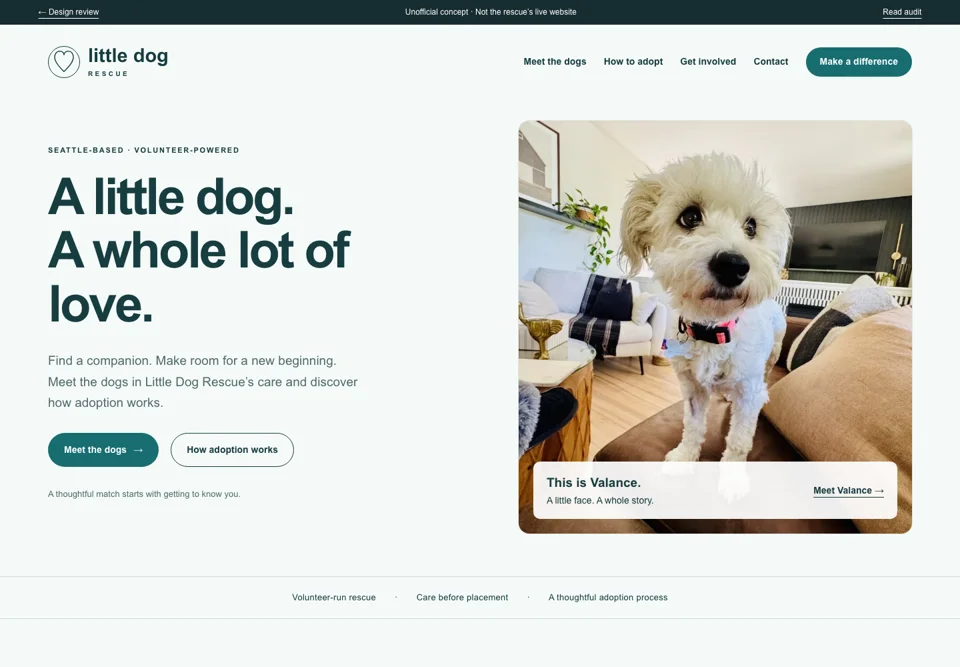
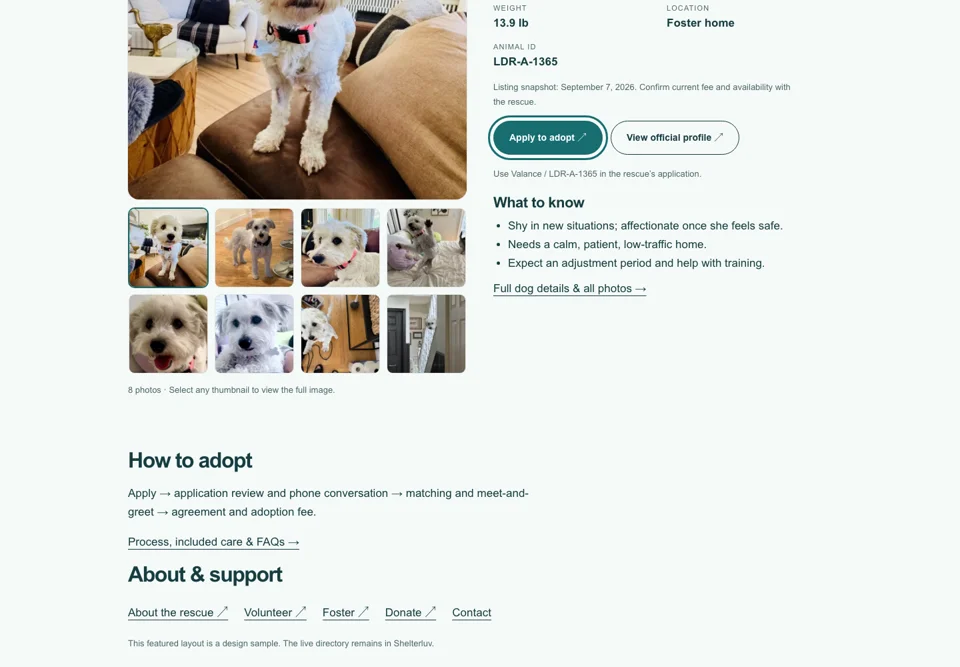
Put dog photos, facts, fees and adoption links first in concept one

diff --git a/app.js b/app.js
@@ -2,6 +2,6 @@ const q=new URLSearchParams(location.search);const look=['teal','warm','forest']
 const heads={teal:['A little dog.<br>A whole lot of love.','Find a companion. Make room for a new beginning.'],warm:['There’s a little<br>someone for you.','A softer landing. A second chance. A place to call home.'],forest:['Good things.<br>Small packages.','A new beginning, right here in the Pacific Northwest.']};
 const steps=`<div class="steps"><article class="step"><h3>Tell us about you.</h3><p>Start with an application so the rescue can learn about your home, routine and hopes for a companion.</p></article><article class="step"><h3>Find the right fit.</h3><p>The volunteer team reviews your application and arranges a phone conversation about potential matches.</p></article><article class="step"><h3>Meet. Connect. Welcome.</h3><p>After matching, meet your potential companion. If it’s a fit, complete the agreement and adoption fee.</p></article></div>`;
 const helpCards=`<div class="cards"><article class="card"><span class="eyebrow">OPEN YOUR HOME</span><h3>Be their in-between.</h3><p>Give a dog a place to settle while the rescue searches for their lasting home.</p>${external(official+'foster','Explore fostering','')}</article><article class="card"><span class="eyebrow">GIVE YOUR TIME</span><h3>Join the good.</h3><p>Support the volunteer team behind each dog’s next chapter.</p>${external(official+'volunteer','Explore volunteering','')}</article><article class="card"><span class="eyebrow">SUPPORT THEIR CARE</span><h3>Make more possible.</h3><p>Help the rescue provide care and prepare dogs for adoption.</p>${external(official+'support-us','Ways to give','')}</article></div>`;
-const pages={home:()=>`<section class="hero"><div class="hero-copy"><span class="eyebrow">SEATTLE-BASED · VOLUNTEER-POWERED</span><h1>${heads[look][0]}</h1><p>${heads[look][1]} Meet the dogs in Little Dog Rescue’s care and discover how adoption works.</p><div class="actions">${link('dogs','Meet the dogs <span aria-hidden="true">→</span>','button')}${link('process','How adoption works','button secondary')}</div><p class="quiet">A thoughtful match starts with getting to know you.</p></div><figure class="hero-photo"><img src="assets/valance-0.webp" alt="Valance, a small white dog, standing on a sofa" width="1028" height="1028" fetchpriority="high"><figcaption><span><strong>This is Valance.</strong>A little face. A whole story.</span>${link('profile','Meet Valance →')}</figcaption></figure></section><div class="trust"><span>Volunteer-run rescue</span><span aria-hidden="true">·</span><span>Care before placement</span><span aria-hidden="true">·</span><span>A thoughtful adoption process</span></div><section class="section"><div class="section-top"><div><span class="eyebrow">A NEW CHAPTER, TOGETHER</span><h2>From first hello<br>to feeling at home.</h2></div><p>Adoption is more than a photo. The rescue considers each dog’s needs alongside your life, home and experience.</p></div>${steps}<div class="actions">${link('process','Explore the adoption process →','button secondary')}</div></section><section class="feature"><div class="section feature-inner"><img src="assets/valance-1.webp" width="1028" height="1028" loading="lazy" alt="Valance in her foster home"><div><span class="eyebrow">ROOM TO FEEL SAFE</span><h2>Every dog deserves<br>a gentle beginning.</h2><p>Some dogs need time to feel comfortable. Valance’s foster notes describe a quiet companion who blossoms with patience and a calm home.</p>${link('profile','Read her story →','button secondary')}<p class="quiet">Featured profile snapshot · September 7, 2026.<br>Check the official listing for current availability.</p></div></div></section><section class="section"><span class="eyebrow">THERE’S MORE THAN ONE WAY TO HELP</span><h2>A little kindness goes a long way.</h2>${helpCards}</section>`,dogs:()=>`<section class="page-head"><span class="eyebrow">MEET YOUR NEXT CHAPTER</span><h1>Little dogs. Real connections.</h1><p>Browse the rescue’s existing Shelterluv listings. Use its search and filters, then open a profile to learn about an individual dog.</p><div class="actions">${link('process','How adoption works','button secondary')}${external(application,'Official adoption application')}</div></section><section class="content"><div class="callout"><strong>Live listing preview:</strong> The panel below is the existing Shelterluv service, not a replacement database. Its dog profiles and controls retain Shelterluv’s styling. Application and donation links inside it lead to real services.</div><div class="embed-shell"><div id="shelterluv_wrap_1737142902"></div></div><p class="embed-caption">Listings missing or difficult to use? ${external(official+'meet-our-dogs','Open the official dog listing','')}.</p><h2>Not sure who might fit?</h2><p>The rescue’s application and matching conversation help the team understand your home and suggest a suitable companion. Please apply before requesting a discussion about a specific dog.</p>${link('process','What to expect →','button secondary')}</section>`,process:()=>`<section class="page-head"><span class="eyebrow">ADOPT WITH CONFIDENCE</span><h1>A thoughtful match.<br>A lasting home.</h1><p>Here’s the rescue’s current process, made easier to follow. Start with an application before asking to discuss a particular dog.</p></section><section class="content"><ol class="wide-steps"><li><h3>Complete the application</h3><p>Share your contact information and the dogs you’re interested in using the rescue’s existing Shelterluv application.</p></li><li><h3>Application review & phone conversation</h3><p>The volunteer team reviews your application, then talks with you about your lifestyle and potential matches.</p></li><li><h3>Matching & meet-and-greet</h3><p>The rescue considers each dog’s personality and needs, then coordinates a meeting for a potential match.</p></li><li><h3>Agreement, fee & a new beginning</h3><p>If it’s the right fit, complete the adoption agreement and fee before welcoming your dog home.</p></li></ol><div class="callout"><strong>A note on timing:</strong> This is a volunteer-run rescue. The contact page says a response may take a few days; an adoption decision may take longer. No specific turnaround is promised.</div><h2>Good to know before you apply.</h2><details open><summary>What does adoption cost?</summary><p>Fees vary by dog. Check the individual Shelterluv profile for the current fee. The rescue says fees help fund its care and rehabilitation work; this preview does not introduce a new fee schedule.</p></details><details><summary>What care is included?</summary><p>The rescue’s adoption page lists a veterinary exam, age-appropriate vaccinations and microchipping, along with starter supplies. Confirm each dog’s arrangements with the team. Puppies require a spay/neuter agreement.</p></details><details><summary>Can I visit a dog before applying?</summary><p>The published process asks for an application first. The team arranges a meet-and-greet after review and matching. Do not assume the listed Seattle address is a walk-in adoption center.</p></details><details><summary>Will my rescue dog already be trained?</summary><p>The featured profile asks adopters to expect an adjustment period and provide patience, structure and compassionate support. Discuss the individual dog’s needs with the rescue.</p></details><div class="actions">${external(application,'Start on Shelterluv')}${link('dogs','Back to the dogs','button secondary')}</div><p class="quiet">Process summarized from the official adoption page. The rescue should approve final wording before it is published.</p></section>`,contact:()=>`<section class="page-head"><span class="eyebrow">LET’S GET YOU TO THE RIGHT PLACE</span><h1>A question? Start here.</h1><p>Choose the path that fits your question. Little Dog Rescue is volunteer-run, and its contact page asks you to allow a few days for a reply.</p></section><section class="content"><div class="contact-grid"><article class="card"><span class="eyebrow">GENERAL QUESTIONS</span><h2>Contact the rescue.</h2><p>Use the email address published on the official website.</p><a class="email" href="mailto:SaveDogs@LittleDogRescue.org">SaveDogs@LittleDogRescue.org</a><p class="quiet">Opens your email app. Nothing is sent automatically.</p><hr><h3>Listed address</h3><p>1037 NE 65th St. #167<br>Seattle, WA 98115</p><p class="quiet">An address is not a visiting invitation. Confirm arrangements with the rescue before traveling.</p></article><article class="card"><span class="eyebrow">INTERESTED IN A DOG?</span><h2>Begin with an application.</h2><p>The rescue asks for an application before discussing specific dogs. Read the process first to understand the next steps.</p>${link('process','Read the adoption process','button')}<p>${external(application,'Official adoption application','')}</p></article></div><div class="section-top"><div><h2>Another way to help?</h2><p>Fostering, volunteering and donations have their own information pages.</p></div></div>${helpCards}</section>`,help:()=>`<section class="page-head"><span class="eyebrow">EVERY LITTLE BIT MATTERS</span><h1>Help write their next chapter.</h1><p>Open your home, share your time or support the care that makes adoption possible.</p></section><section class="content">${helpCards}<div class="callout"><strong>Giving safely:</strong> All donation choices lead to the rescue’s official support page. This preview never asks for payment details and does not promise that a particular amount buys a specific treatment.</div><h2>Care starts with community.</h2><p>Little Dog Rescue describes itself as a volunteer-run nonprofit. Keep its existing donation and volunteer workflows in place while making the next step easier to find.</p>${external(official+'support-us','Visit official support page')}</section>`,profile:()=>`<section class="page-head"><span class="eyebrow">FEATURED STORY · DESIGN SAMPLE</span><h1>Meet Valance.</h1><p>A quiet home. A little patience. A fluffy companion.</p></section><section class="content"><div class="profile-grid"><div><img id="profile-photo" src="assets/valance-0.webp" width="1028" height="1028" alt="Valance in her foster home"><div class="thumbs">${[0,1,2].map((i)=>`<button data-photo="${i}" aria-label="View Valance photo ${i+1}" aria-pressed="${i===0}"><img src="assets/valance-${i}.webp" width="70" height="70" alt=""></button>`).join('')}</div></div><div><span class="eyebrow">LDR-A-1365 · PROFILE SNAPSHOT</span><h2>A gentle little soul.</h2><dl class="facts"><div><dt>Listed breed</dt><dd>Coton de Tuléar</dd></div><div><dt>Sex</dt><dd>Female</dd></div><div><dt>Listed weight</dt><dd>13.9 lb</dd></div><div><dt>Location</dt><dd>Foster home</dd></div></dl><p>Her foster describes a shy dog who becomes an affectionate shadow once she feels safe. A patient adopter and a calm, low-traffic home could give her room to settle.</p><p class="quiet">Snapshot from September 7, 2026. Breed is the rescue’s estimate. Age, fee and availability should be checked on the live profile.</p>${external(profile,'View official profile')}</div></div><div class="callout"><strong>Editorial feature, not a new dog database:</strong> This illustrates an optional Squarespace story page using native image and text blocks. It would require manual updates. The automatically updated directory and full dog profiles remain in Shelterluv.</div>${link('dogs','← Browse the existing Shelterluv listings','button secondary')}</section>`};document.getElementById('main').innerHTML=pages[current]();document.title=`${{teal:'01 · Clear & Kind',warm:'02 · A Little Home',forest:'03 · Northwest Companion'}[look]} · ${current} · Unofficial preview`;
+const pages={home:()=>`<section class="hero"><div class="hero-copy"><span class="eyebrow">SEATTLE-BASED · VOLUNTEER-POWERED</span><h1>${heads[look][0]}</h1><p>${heads[look][1]} Meet the dogs in Little Dog Rescue’s care and discover how adoption works.</p><div class="actions">${link('dogs','Meet the dogs <span aria-hidden="true">→</span>','button')}${link('process','How adoption works','button secondary')}</div><p class="quiet">A thoughtful match starts with getting to know you.</p></div><figure class="hero-photo"><img src="assets/valance-0.webp" alt="Valance, a small white dog, standing on a sofa" width="1028" height="1028" fetchpriority="high"><figcaption><span><strong>This is Valance.</strong>A little face. A whole story.</span>${link('profile','Meet Valance →')}</figcaption></figure></section><div class="trust"><span>Volunteer-run rescue</span><span aria-hidden="true">·</span><span>Care before placement</span><span aria-hidden="true">·</span><span>A thoughtful adoption process</span></div><section class="section"><div class="section-top"><div><span class="eyebrow">A NEW CHAPTER, TOGETHER</span><h2>From first hello<br>to feeling at home.</h2></div><p>Adoption is more than a photo. The rescue considers each dog’s needs alongside your life, home and experience.</p></div>${steps}<div class="actions">${link('process','Explore the adoption process →','button secondary')}</div></section><section class="feature"><div class="section feature-inner"><img src="assets/valance-1.webp" width="1028" height="1028" loading="lazy" alt="Valance in her foster home"><div><span class="eyebrow">ROOM TO FEEL SAFE</span><h2>Every dog deserves<br>a gentle beginning.</h2><p>Some dogs need time to feel comfortable. Valance’s foster notes describe a quiet companion who blossoms with patience and a calm home.</p>${link('profile','Read her story →','button secondary')}<p class="quiet">Featured profile snapshot · September 7, 2026.<br>Check the official listing for current availability.</p></div></div></section><section class="section"><span class="eyebrow">THERE’S MORE THAN ONE WAY TO HELP</span><h2>A little kindness goes a long way.</h2>${helpCards}</section>`,dogs:()=>`<section class="page-head"><span class="eyebrow">MEET YOUR NEXT CHAPTER</span><h1>Little dogs. Real connections.</h1><p>Browse the rescue’s existing Shelterluv listings. Use its search and filters, then open a profile to learn about an individual dog.</p><div class="actions">${link('process','How adoption works','button secondary')}${external(application,'Official adoption application')}</div></section><section class="content"><div class="callout"><strong>Live listing preview:</strong> The panel below is the existing Shelterluv service, not a replacement database. Its dog profiles and controls retain Shelterluv’s styling. Application and donation links inside it lead to real services.</div><div class="embed-shell"><div id="shelterluv_wrap_1737142902"></div></div><p class="embed-caption">Listings missing or difficult to use? ${external(official+'meet-our-dogs','Open the official dog listing','')}.</p><h2>Not sure who might fit?</h2><p>The rescue’s application and matching conversation help the team understand your home and suggest a suitable companion. Please apply before requesting a discussion about a specific dog.</p>${link('process','What to expect →','button secondary')}</section>`,process:()=>`<section class="page-head"><span class="eyebrow">ADOPT WITH CONFIDENCE</span><h1>A thoughtful match.<br>A lasting home.</h1><p>Here’s the rescue’s current process, made easier to follow. Start with an application before asking to discuss a particular dog.</p></section><section class="content"><ol class="wide-steps"><li><h3>Complete the application</h3><p>Share your contact information and the dogs you’re interested in using the rescue’s existing Shelterluv application.</p></li><li><h3>Application review & phone conversation</h3><p>The volunteer team reviews your application, then talks with you about your lifestyle and potential matches.</p></li><li><h3>Matching & meet-and-greet</h3><p>The rescue considers each dog’s personality and needs, then coordinates a meeting for a potential match.</p></li><li><h3>Agreement, fee & a new beginning</h3><p>If it’s the right fit, complete the adoption agreement and fee before welcoming your dog home.</p></li></ol><div class="callout"><strong>A note on timing:</strong> This is a volunteer-run rescue. The contact page says a response may take a few days; an adoption decision may take longer. No specific turnaround is promised.</div><h2>Good to know before you apply.</h2><details open><summary>What does adoption cost?</summary><p>Fees vary by dog. Check the individual Shelterluv profile for the current fee. The rescue says fees help fund its care and rehabilitation work; this preview does not introduce a new fee schedule.</p></details><details><summary>What care is included?</summary><p>The rescue’s adoption page lists a veterinary exam, age-appropriate vaccinations and microchipping, along with starter supplies. Confirm each dog’s arrangements with the team. Puppies require a spay/neuter agreement.</p></details><details><summary>Can I visit a dog before applying?</summary><p>The published process asks for an application first. The team arranges a meet-and-greet after review and matching. Do not assume the listed Seattle address is a walk-in adoption center.</p></details><details><summary>Will my rescue dog already be trained?</summary><p>The featured profile asks adopters to expect an adjustment period and provide patience, structure and compassionate support. Discuss the individual dog’s needs with the rescue.</p></details><div class="actions">${external(application,'Start on Shelterluv')}${link('dogs','Back to the dogs','button secondary')}</div><p class="quiet">Process summarized from the official adoption page. The rescue should approve final wording before it is published.</p></section>`,contact:()=>`<section class="page-head"><span class="eyebrow">LET’S GET YOU TO THE RIGHT PLACE</span><h1>A question? Start here.</h1><p>Choose the path that fits your question. Little Dog Rescue is volunteer-run, and its contact page asks you to allow a few days for a reply.</p></section><section class="content"><div class="contact-grid"><article class="card"><span class="eyebrow">GENERAL QUESTIONS</span><h2>Contact the rescue.</h2><p>Use the email address published on the official website.</p><a class="email" href="mailto:SaveDogs@LittleDogRescue.org">SaveDogs@LittleDogRescue.org</a><p class="quiet">Opens your email app. Nothing is sent automatically.</p><hr><h3>Listed address</h3><p>1037 NE 65th St. #167<br>Seattle, WA 98115</p><p class="quiet">An address is not a visiting invitation. Confirm arrangements with the rescue before traveling.</p></article><article class="card"><span class="eyebrow">INTERESTED IN A DOG?</span><h2>Begin with an application.</h2><p>The rescue asks for an application before discussing specific dogs. Read the process first to understand the next steps.</p>${link('process','Read the adoption process','button')}<p>${external(application,'Official adoption application','')}</p></article></div><div class="section-top"><div><h2>Another way to help?</h2><p>Fostering, volunteering and donations have their own information pages.</p></div></div>${helpCards}</section>`,help:()=>`<section class="page-head"><span class="eyebrow">EVERY LITTLE BIT MATTERS</span><h1>Help write their next chapter.</h1><p>Open your home, share your time or support the care that makes adoption possible.</p></section><section class="content">${helpCards}<div class="callout"><strong>Giving safely:</strong> All donation choices lead to the rescue’s official support page. This preview never asks for payment details and does not promise that a particular amount buys a specific treatment.</div><h2>Care starts with community.</h2><p>Little Dog Rescue describes itself as a volunteer-run nonprofit. Keep its existing donation and volunteer workflows in place while making the next step easier to find.</p>${external(official+'support-us','Visit official support page')}</section>`,profile:()=>`<section class="page-head"><span class="eyebrow">FEATURED STORY · DESIGN SAMPLE</span><h1>Meet Valance.</h1><p>A quiet home. A little patience. A fluffy companion.</p></section><section class="content"><div class="profile-grid"><div><img id="profile-photo" src="assets/valance-0.webp" width="1028" height="1028" alt="Valance in her foster home"><div class="thumbs">${[0,1,2].map((i)=>`<button data-photo="${i}" aria-label="View Valance photo ${i+1}" aria-pressed="${i===0}"><img src="assets/valance-${i}.webp" width="70" height="70" alt=""></button>`).join('')}</div></div><div><span class="eyebrow">LDR-A-1365 · PROFILE SNAPSHOT</span><h2>A gentle little soul.</h2><dl class="facts"><div><dt>Listed breed</dt><dd>Coton de Tuléar</dd></div><div><dt>Sex</dt><dd>Female</dd></div><div><dt>Listed weight</dt><dd>13.9 lb</dd></div><div><dt>Location</dt><dd>Foster home</dd></div></dl><p>Her foster describes a shy dog who becomes an affectionate shadow once she feels safe. A patient adopter and a calm, low-traffic home could give her room to settle.</p><p class="quiet">Snapshot from September 7, 2026. Breed is the rescue’s estimate. Age, fee and availability should be checked on the live profile.</p>${external(profile,'View official profile')}</div></div><div class="callout"><strong>Editorial feature, not a new dog database:</strong> This illustrates an optional Squarespace story page using native image and text blocks. It would require manual updates. The automatically updated directory and full dog profiles remain in Shelterluv.</div>${link('dogs','← Browse the existing Shelterluv listings','button secondary')}</section>`};if(look==='teal') applyPracticalConcept(pages);document.getElementById('main').innerHTML=pages[current]();document.title=`${{teal:'01 · Clear & Kind',warm:'02 · A Little Home',forest:'03 · Northwest Companion'}[look]} · ${current} · Unofficial preview`;
 document.querySelector('.menu').addEventListener('click',e=>{const open=e.currentTarget.getAttribute('aria-expanded')!=='true';e.currentTarget.setAttribute('aria-expanded',String(open));document.querySelector('nav').classList.toggle('open',open)});const dialog=document.getElementById('handoff');document.addEventListener('click',e=>{const a=e.target.closest('[data-official]');if(a){e.preventDefault();document.getElementById('handoff-link').href=a.href;dialog.showModal()}if(e.target.closest('.close,.close-dialog'))dialog.close();const photo=e.target.closest('[data-photo]');if(photo){document.getElementById('profile-photo').src=`assets/valance-${photo.dataset.photo}.webp`;document.querySelectorAll('[data-photo]').forEach(b=>b.setAttribute('aria-pressed',String(b===photo)))}});
 if(current==='dogs'){const script=document.createElement('script');script.src='https://new.shelterluv.com/misc/shelterluv_embed.js';script.onload=()=>{window.sourceDomain='https://new.shelterluv.com';window.base_path='';window.GID=47562;window.filters=[];window.EmbedAvailablePets('shelterluv_wrap_1737142902',47562,[],1,window.sourceDomain,'',2);const observer=new MutationObserver(()=>{const f=document.querySelector('.embed-shell iframe');if(f){f.title='Little Dog Rescue live adoptable dogs on Shelterluv';observer.disconnect()}});observer.observe(document.querySelector('.embed-shell'),{childList:true,subtree:true})};script.onerror=()=>{document.querySelector('.embed-shell').textContent='The live listing could not load. Use the official listing link below.'};document.body.append(script)}

diff --git a/teal.js b/teal.js
@@ -1,0 +1,35 @@
+// Concept 01 only. Public listing snapshot, not a synchronized dog database.
+function applyPracticalConcept(pages) {
+  const snapshot = 'Listing snapshot: September 7, 2026. Confirm current fee and availability with the rescue.';
+  const facts = `<dl class="facts">
+    <div><dt>Adoption fee</dt><dd>$1,275</dd></div><div><dt>Age at snapshot</dt><dd>2 years, 7 months, 1 week</dd></div>
+    <div><dt>Listed breed</dt><dd>Coton de Tuléar</dd></div><div><dt>Sex</dt><dd>Female</dd></div>
+    <div><dt>Weight</dt><dd>13.9 lb</dd></div><div><dt>Location</dt><dd>Foster home</dd></div>
+    <div><dt>Animal ID</dt><dd>LDR-A-1365</dd></div>
+  </dl>`;
+  const gallery = `<div class="dog-gallery"><img id="profile-photo" src="assets/valance-0.webp" width="1028" height="1028" alt="Valance in her foster home">
+    <div class="thumbs" aria-label="All eight Valance photos">${Array.from({length:8}, (_,i)=>`<button data-photo="${i}" aria-label="View Valance photo ${i+1}" aria-pressed="${i===0}"><img src="assets/valance-${i}.webp" width="70" height="70" alt=""></button>`).join('')}</div>
+    <p class="quiet">8 photos · Select any thumbnail to view the full image.</p></div>`;
+  const dog = `<div class="profile-grid">${gallery}<div class="dog-summary"><span class="eyebrow">FEATURED DOG · DESIGN SAMPLE</span><h2>Valance</h2>${facts}
+    <p class="quiet">${snapshot}</p><div class="actions">${external(application,'Apply to adopt')}${external(profile,'View official profile','button secondary')}</div>
+    <p class="quiet">Use Valance / LDR-A-1365 in the rescue’s application.</p>
+    <h3>What to know</h3><ul><li>Shy in new situations; affectionate once she feels safe.</li><li>Needs a calm, patient, low-traffic home.</li><li>Expect an adjustment period and help with training.</li></ul>
+    ${link('profile','Full dog details & all photos →')}
+  </div></div>`;
+  const support = `<div class="practical-links">${external(official+'about-us','About the rescue','')}${external(official+'volunteer','Volunteer','')}${external(official+'foster','Foster','')}${external(official+'support-us','Donate','')}${link('contact','Contact')}</div>`;
+  pages.home = () => `<section class="practical-head"><h1>Find a dog to adopt.</h1><p>Photos, adoption fees, dog details, and how to apply.</p><div class="actions">${link('dogs','Browse all available dogs','button')}${link('process','Adoption process','button secondary')}</div></section>
+    <section class="practical-content" aria-label="Featured dog">${dog}</section>
+    <section class="practical-content"><h2>How to adopt</h2><p>Apply → application review and phone conversation → matching and meet-and-greet → agreement and adoption fee.</p>${link('process','Process, included care & FAQs →')}<h2>About & support</h2>${support}<p class="quiet">This featured layout is a design sample. The live directory remains in Shelterluv.</p></section>`;
+  pages.profile = () => `<section class="practical-head">${link('dogs','← All available dogs')}<h1>Valance</h1></section><section class="practical-content">${dog}
+    <h2>Personality & home needs</h2><p>Her foster describes a dog who is nervous around new places and loud noises. Once comfortable, she seeks affection, follows her person around the home, and enjoys sleeping in bed. The foster had not heard her bark or whine at the time of the listing; that is an observation, not a guarantee.</p>
+    <h2>Training & care</h2><p>The rescue asks adopters not to expect dogs to arrive fully trained. Allow time for house training, leash skills, routines, and decompression. Its listing discourages crates except for vehicle transport. Breed, adult size, weight, and coat type are estimates, not guarantees.</p>
+    <p>Compatibility with children, cats, and other dogs is not specified in this captured profile. Ask the rescue; do not assume suitability.</p>
+    <div class="actions">${external(profile,'Read the complete official listing','button secondary')}${external(application,'Apply to adopt')}</div>${link('process','Adoption process & included care →')}<h2>About & support</h2>${support}
+    <p class="quiet">Design sample using a dated public listing. This layout would need manual updates in Squarespace; it does not restyle Shelterluv’s embedded profiles.</p></section>`;
+  const originalDogs = pages.dogs;
+  pages.dogs = () => originalDogs().replace('MEET YOUR NEXT CHAPTER','AVAILABLE DOGS').replace('Little dogs. Real connections.','Browse dogs for adoption.').replace('Browse the rescue’s existing Shelterluv listings. Use its search and filters, then open a profile to learn about an individual dog.','Search available dogs. Open a profile for all photos, age, weight, adoption fee, and the application.');
+  document.querySelector('nav .nav-cta').textContent = 'Donate';
+  document.querySelector('nav .nav-cta').href = official+'support-us';
+  document.querySelector('nav .nav-cta').setAttribute('data-official','');
+  document.querySelector('.footer-top h2').textContent = 'Little Dog Rescue';
+}

diff --git a/concept.html b/concept.html
@@ -1,1 +1,1 @@
-<!doctype html><html lang="en"><head><meta charset="utf-8"><meta name="viewport" content="width=device-width,initial-scale=1"><meta name="robots" content="noindex,nofollow"><title>Little Dog Rescue · Unofficial design preview</title><link rel="stylesheet" href="style.css"><script src="app.js" defer></script></head><body><a class="skip" href="#main">Skip to content</a><div class="preview"><a href="index.html">← Design review</a><span>Unofficial concept · Not the rescue’s live website</span><a href="audit.html">Read audit</a></div><header class="header"><a class="brand" href="concept.html"><span class="brand-mark" aria-hidden="true">♡</span><span>little dog<span class="brand-small">RESCUE</span></span></a><button class="menu" aria-expanded="false" aria-controls="nav">Menu</button><nav id="nav" aria-label="Main navigation"></nav></header><main id="main"></main><footer><div class="footer-top"><div><span class="eyebrow">LITTLE DOG RESCUE</span><h2>Small dogs.<br>Extraordinary love.</h2></div><div><h3>Let’s find your next step.</h3><a data-page="dogs">Meet the dogs</a><a data-page="process">How adoption works</a><a data-page="help">Foster, volunteer & give</a><a data-page="contact">Contact the rescue</a></div></div><div class="footer-bottom">Unofficial design exploration · September 2026 · Photos from the rescue’s public Shelterluv profile. Availability may change. <a href="https://www.littledogrescue.org/" target="_blank" rel="noopener">Official rescue website ↗</a></div></footer><dialog id="handoff" aria-labelledby="handoff-title"><button class="close" aria-label="Close dialog">×</button><span class="eyebrow">OFFICIAL WEBSITE</span><h2 id="handoff-title">Continue to the rescue</h2><p>You’re leaving this design preview. Applications, donations and inquiries are handled only by Little Dog Rescue and its existing services.</p><a id="handoff-link" class="button" target="_blank" rel="noopener">Continue to official site ↗</a><button class="text-button close-dialog">Stay in the preview</button></dialog></body></html>
+<!doctype html><html lang="en"><head><meta charset="utf-8"><meta name="viewport" content="width=device-width,initial-scale=1"><meta name="robots" content="noindex,nofollow"><title>Little Dog Rescue · Unofficial design preview</title><link rel="stylesheet" href="style.css"><script src="teal.js" defer></script><script src="app.js" defer></script></head><body><a class="skip" href="#main">Skip to content</a><div class="preview"><a href="index.html">← Design review</a><span>Unofficial concept · Not the rescue’s live website</span><a href="audit.html">Read audit</a></div><header class="header"><a class="brand" href="concept.html"><span class="brand-mark" aria-hidden="true">♡</span><span>little dog<span class="brand-small">RESCUE</span></span></a><button class="menu" aria-expanded="false" aria-controls="nav">Menu</button><nav id="nav" aria-label="Main navigation"></nav></header><main id="main"></main><footer><div class="footer-top"><div><span class="eyebrow">LITTLE DOG RESCUE</span><h2>Small dogs.<br>Extraordinary love.</h2></div><div><h3>Let’s find your next step.</h3><a data-page="dogs">Meet the dogs</a><a data-page="process">How adoption works</a><a data-page="help">Foster, volunteer & give</a><a data-page="contact">Contact the rescue</a></div></div><div class="footer-bottom">Unofficial design exploration · September 2026 · Photos from the rescue’s public Shelterluv profile. Availability may change. <a href="https://www.littledogrescue.org/" target="_blank" rel="noopener">Official rescue website ↗</a></div></footer><dialog id="handoff" aria-labelledby="handoff-title"><button class="close" aria-label="Close dialog">×</button><span class="eyebrow">OFFICIAL WEBSITE</span><h2 id="handoff-title">Continue to the rescue</h2><p>You’re leaving this design preview. Applications, donations and inquiries are handled only by Little Dog Rescue and its existing services.</p><a id="handoff-link" class="button" target="_blank" rel="noopener">Continue to official site ↗</a><button class="text-button close-dialog">Stay in the preview</button></dialog></body></html>

diff --git a/style.css b/style.css
@@ -2,3 +2,23 @@
 /* Explicit dimensions reserve layout space; CSS controls rendered height. */
 img{height:auto}.thumbs img{height:70px}
 @media(max-width:850px){.hero h1{max-width:none}.hero .actions{gap:10px}.hero .actions .button{font-size:13px;padding:12px 16px}}
+/* Concept 01: compact, factual adoption browsing. */
+.teal .practical-head,.teal .practical-content{max-width:1200px;margin:auto;padding:24px 5vw}
+.teal .practical-head h1{font-size:clamp(32px,4vw,48px);margin:8px 0 12px}
+.teal .practical-head p{margin:0}
+.teal .actions{gap:12px;margin:18px 0}
+.teal .practical-content h2{font-size:32px;margin:18px 0}
+.teal .dog-summary h2{font-size:38px;margin:8px 0 16px}
+.teal .facts{gap:12px;margin:12px 0;font-variant-numeric:tabular-nums}
+.teal .facts div:first-child dd{font-size:25px}
+.teal .thumbs{display:grid;grid-template-columns:repeat(4,minmax(0,1fr));gap:8px}
+.teal .thumbs button{min-width:44px;min-height:44px}
+.teal .thumbs img{width:100%;height:auto;aspect-ratio:1;object-fit:contain}
+.teal .dog-summary h3{font-size:22px;margin:20px 0 10px}
+.teal .dog-summary ul{padding-left:22px;margin:10px 0}
+.teal .practical-links{display:flex;flex-wrap:wrap;gap:8px 24px}
+.teal .practical-links a{display:inline-flex;align-items:center;min-height:44px}
+.teal .practical-content:last-child{padding-bottom:40px}
+.teal .page-head{padding-top:20px;padding-bottom:8px}
+.teal .page-head h1{font-size:clamp(32px,4vw,48px);margin:12px 0}
+@media(max-width:850px){.teal .profile-grid{gap:18px}.teal .practical-head,.teal .practical-content{padding-top:16px;padding-bottom:16px}.teal .header{min-height:80px}.teal .dog-gallery #profile-photo{max-height:340px}.teal .thumbs{grid-template-columns:repeat(4,minmax(0,1fr))}.teal .thumbs img{max-height:66px}.teal .dog-summary{padding-bottom:12px}}
